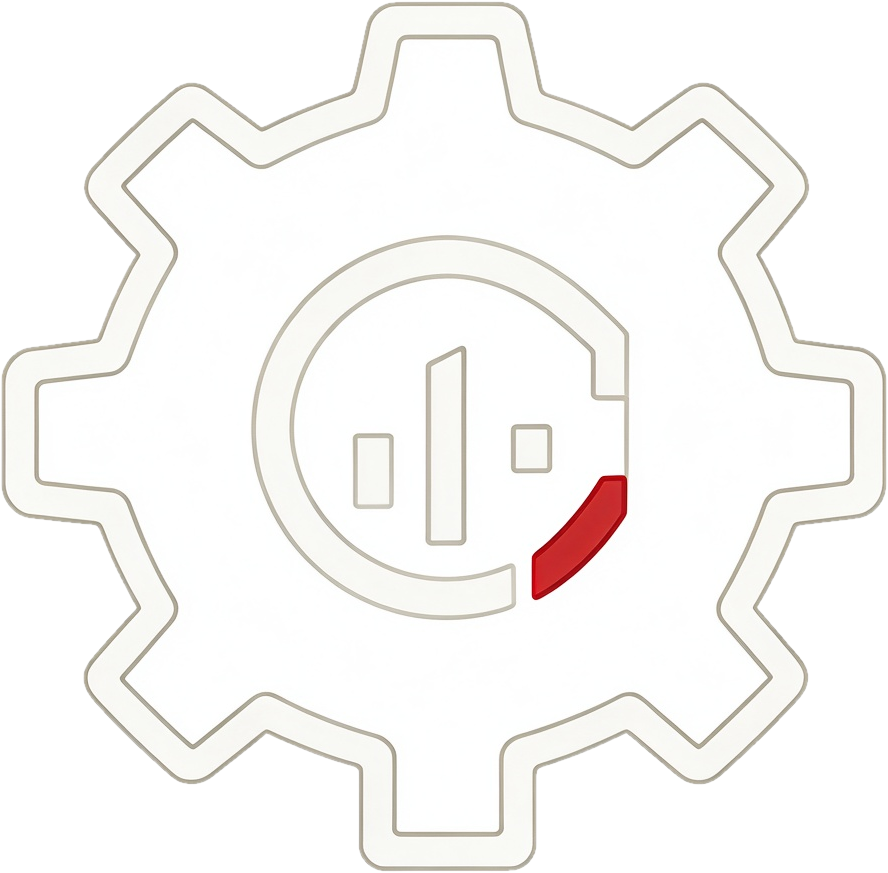
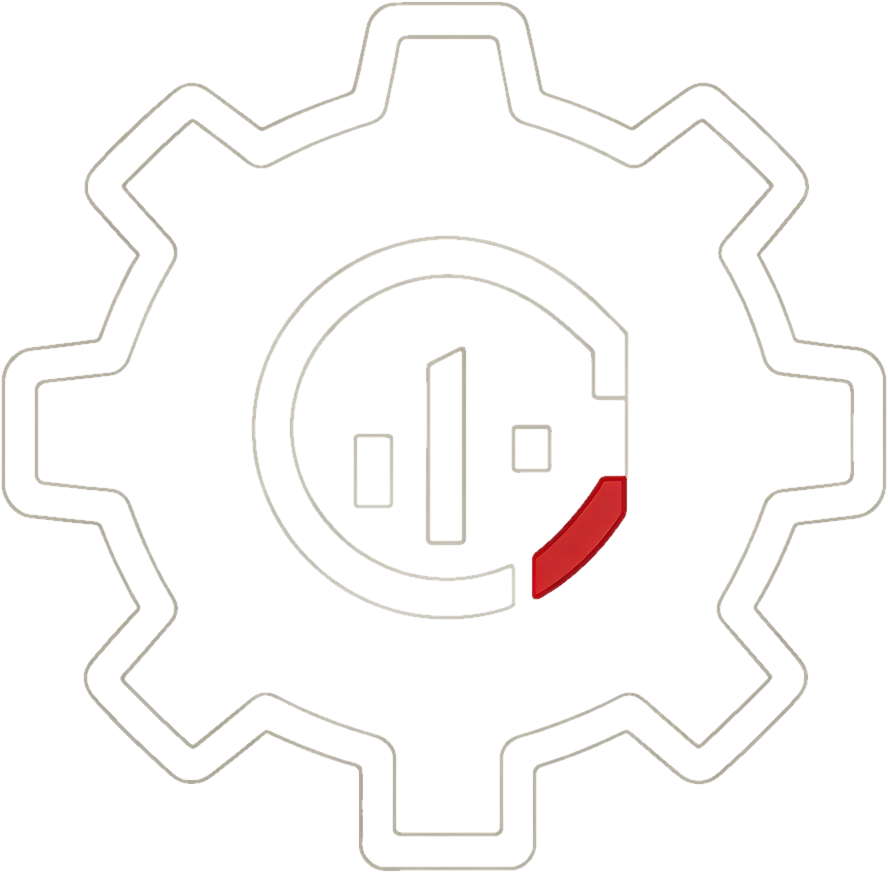
fix(站点): 找回被误删的导航+主视觉；图标重抠为线稿并加统一暗底碟
- 上次的 Edit 误把 nav 与 hero 整块删掉（只修它们的子元素却删了容器）→ 找回
- icon_build / icon_http 是白实心 → mode=all 重抠为空心线稿
- 图标容器统一：小圆角暗底碟，图标 36px 居中
- reticle 已重抠（当前未引用）

diff --git a/site/index.html b/site/index.html
@@ -113,8 +113,10 @@ section > .seclayer::after{content:"";position:absolute;inset:0;
 .fcard::before{content:"";position:absolute;left:0;top:0;width:2px;height:0;background:var(--red);transition:.3s}
 .fcard:hover{background:var(--pnl2);transform:translateY(-3px)}
 .fcard:hover::before{height:100%}
-.fcard .ic{height:52px;display:flex;align-items:center;margin-bottom:14px}
-.fcard .ic img{height:46px;width:auto;display:block;filter:drop-shadow(0 6px 14px rgba(0,0,0,.55))}
+.fcard .ic{width:58px;height:58px;border-radius:10px;margin-bottom:16px;
+  background:rgba(0,0,0,.42);border:1px solid var(--line);
+  display:flex;align-items:center;justify-content:center}
+.fcard .ic img{height:36px;width:auto;display:block;filter:drop-shadow(0 3px 8px rgba(0,0,0,.5))}
 .fcard h3{margin:0 0 8px;font-size:15.5px;font-weight:700}
 .fcard p{margin:0;color:var(--dim);font-size:13.5px;line-height:1.7}
 
@@ -163,6 +165,45 @@ footer b{color:var(--dim)}
 </style>
 </head>
 <body>
+
+<!-- ================= 导航 ================= -->
+<div class="nav"><div class="wrap">
+  <a class="logo" href="#top"><img src="assets/emblem.png" alt=""><span>RA3-COPILOT</span></a>
+  <nav>
+    <a href="#about">简介</a><a href="#features">功能</a><a href="#arch">架构</a>
+    <a href="#usage">使用</a><a href="#mcp">脑机接口</a><a href="units.html">单位代码</a>
+  </nav>
+</div></div>
+
+<!-- ================= 主视觉 ================= -->
+<header class="hero" id="top">
+  <div class="bgart"></div>
+  <div class="veil"></div>
+  <div class="wrap">
+    <div class="hero-copy">
+      <span class="tag">◈ 红色警戒 3 · 日冕 MOD · 作战辅助系统</span>
+      <h1>RA3-<em>COPILOT</em></h1>
+      <div class="en">IN-GAME TACTICAL ASSISTANT</div>
+      <p>进程内接入游戏的<b>作战辅助系统</b>：以局内覆盖层呼出战术面板，接管资源、战斗、单位与召唤；
+         并把战局开放给 <b>AI 副官</b> —— 读态势、下指令、投部队。</p>
+      <div class="hero-cta">
+        <a class="btn primary" href="#usage">▸ 快速上手</a>
+        <a class="btn" href="units.html">◈ 单位代码查询器</a>
+        <a class="btn" href="https://github.com/ProbiusOfficial/Ra3-Copilot">◇ GitHub</a>
+      </div>
+      <div class="herostats">
+        <div><b>20</b><span>挂载点</span></div>
+        <div><b>410</b><span>可召唤单位</span></div>
+        <div><b>5461</b><span>对象代码</span></div>
+        <div><b>MCP</b><span>脑机接口</span></div>
+      </div>
+    </div>
+    <div class="hero-art">
+      <img class="ch" src="assets/character_full.png" alt="RA3-COPILOT 副官"
+           onerror="this.classList.add('miss')">
+    </div>
+  </div>
+</header>
 
 <div class="wrap">
 
